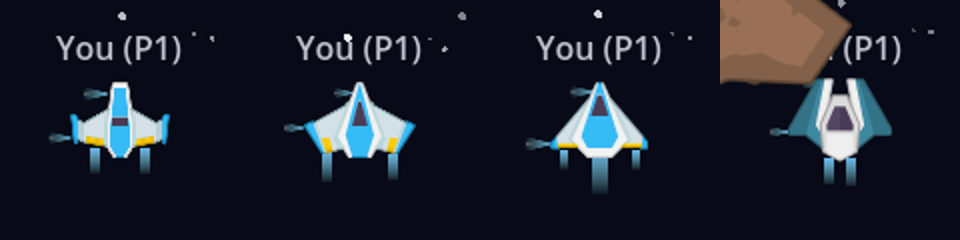
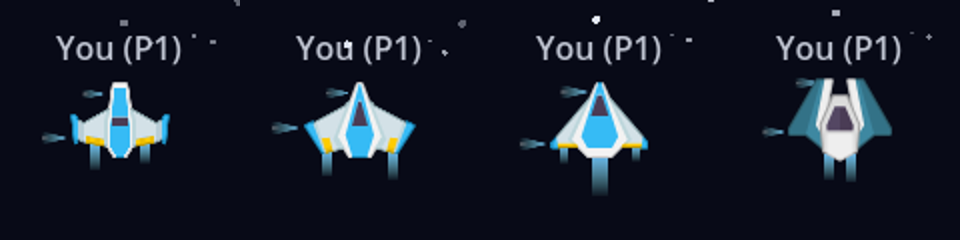
Space: flames flush on the hull, RCS puffs clear of it; fix late input after select
- Main flames hang from their top edge, placed on each hull's back edge
  (measured off the sprite's alpha) with a 1 px overlap, so there's no
  gap and their flicker stretches away from the ship.
- RCS puffs start RCS_GAP (3 px) out from their nozzles.
- Going back to select: the client stops its InputRelay at once, and the
  server's submit_input drops input for a relay no longer in the tree.
  Input already in flight for a ship removed by _request_despawn used to
  reach the detached node and log "Cannot call method 'is_server' on a
  null value", which failed a debug-server smoke run.

Claude-Session: https://claude.ai/code/session_01Gx7ir3udYG59zuXnbMWT41

diff --git a/CHANGELOG.md b/CHANGELOG.md
@@ -7,7 +7,7 @@ Each release's section becomes the notes of its GitHub Release (`tools/release_n
 ## [Unreleased]
 
 ### Added
-- **Space: each hull has its own jets**: flames and RCS nozzles placed on each ship's art (twin wing engines on the Falcon, outboard on the Comet, a big central flame plus two small on the Hornet, twin rear jets and prong-tip nozzles on the Gunship).
+- **Space: each hull has its own jets**: flames and RCS nozzles placed on each ship's art (flames flush with the hull, RCS puffs a few pixels out) (twin wing engines on the Falcon, outboard on the Comet, a big central flame plus two small on the Hornet, twin rear jets and prong-tip nozzles on the Gunship).
 - **Space: strafe**: Q / E (LB / RB or the right stick) slide your ship sideways without turning, at 60% of its thrust, with side thrusters drawn. Bots weave in dogfights. The input protocol gains a `strafe` axis (`submit_input(move, jump, fire, strafe, seq)`).
 - **Space: teams, PvP and radar** (#35): colours are teams (auto joins the smallest); shots hit ships of other teams (200 points a kill, shields and spawn protection still count, no friendly fire); bots attack enemy ships near them; the scoreboard groups players by team with totals; a radar top-centre shows ships around you (and the way to far ones) and nearby rocks.
 - **Server-flown bots**: the first person into an empty match picks how many bots (0–7) on the space menu's **Bots** row. The server flies them itself (`ServerBots`: no client, no socket), with a random ship and colour; they give up seats to people and leave with the last one. Works for any game (`GameBase._make_server_bot`); only space has the menu row.
@@ -25,6 +25,7 @@ Each release's section becomes the notes of its GitHub Release (`tools/release_n
 - **Space is the default game**: a page with no `?game=`, a client or server with no `--game`, `tools/run_server.sh` / `run_client.sh` without an argument, and the Docker image without `GAME` all start space (`Protocol.DEFAULT_GAME`). The box arenas stay at `?game=2d` / `?game=3d`.
 
 ### Fixed
+- Going back to ship select could leave input on its way to a ship the server had just removed, which logged a script error on the server (`is_server` on null). The client now stops sending input as it leaves, and the server drops input for a ship that's gone.
 - The exported (release) space server no longer logs "Attempt to disconnect a nonexistent connection" for each asteroid, shot and pickup still alive when it quits, which failed CI's exported-server smoke test. Spawned nodes are now freed before their spawner.
 - `SnapshotClock`'s latency window is 2 s of server time instead of 40 packets, so several players can share one clock.
 - A client that stalls while the first snapshots arrive (loading art on the first spawn) no longer draws everything seconds late for a long time: `SnapshotClock` jumps when it is far behind instead of slewing.
